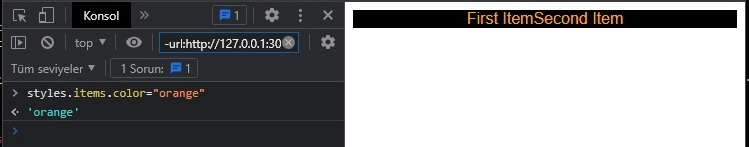
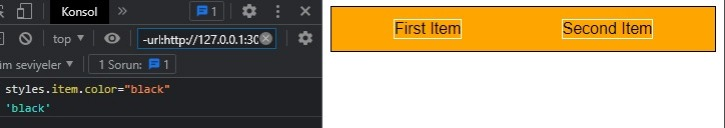
doc

diff --git a/example.html b/example.html
@@ -9,24 +9,49 @@
 </head>
 <body>
     
-    <div css="items"><span>First Item</span><span>Second Item</span></div>
+<!--You can use multiple variables-->
+<div css="items spaceBetween">
+    <span css="item">First Item</span>
+    <span css="item">Second Item</span>
+</div>
 
-    <script>
-    let styles=document.css({
-    items:{
-      display:"flex",
-      justifyContent:"center",
-      alignItems:"center"
+<script>
+//First Method
+let styles=document.css({
+items:{
+  display:"flex",
+  alignItems:"center",
+  padding:"12px",
+  border:"1px solid black",
+},
+spaceBetween:{
+    justifyContent:"space-around"
+},
+item:{
+    border:"white 1px solid"
+}
+})
+
+//You can update after
+let items=styles.items
+
+items.color="white";
+items.backgroundColor="orange"
+
+
+/*
+Alternative usage
+
+let [style,settings]=css({
+    blue:{
+    backgroundColor:"blue"
     }
-    })
-    
-    //You can update after
-    let items=styles.items
-    
-    items.color="green";
-    items.backgroundColor="black"
-    
-    </script>
-    
+})
+
+//You can add multiple elements
+settings.init(document)
+settings.init(document.querySelector(".other"))
+*/
+</script>
 </body>
 </html>

diff --git a/README.md b/README.md
@@ -4,26 +4,59 @@
 Variable Based Dynamic Css Library
 
 # Usage
-```
-<div css="items"><span>First Item</span><span>Second Item</span></div>
+```html
+<!--You can use multiple variables-->
+<div css="items spaceAround">
+    <span css="item">First Item</span>
+    <span css="item">Second Item</span>
+</div>
 
 <script>
+//First Method
 let styles=document.css({
 items:{
   display:"flex",
-  justifyContent:"center",
-  alignItems:"center"
+  alignItems:"center",
+  padding:"12px",
+  border:"1px solid black",
+},
+spaceAround:{
+    justifyContent:"space-around"
+},
+item:{
+    border:"white 1px solid"
 }
 })
 
 //You can update after
 let items=styles.items
 
-items.color="green";
-items.backgroundColor="black"
+items.color="white";
+items.backgroundColor="orange"
 
-</script>
+
+/*
+Alternative usage
+
+let [style,settings]=css({
+    blue:{
+    backgroundColor:"blue"
+    }
+})
+
+//You can add multiple elements
+settings.init(document)
+settings.init(document.querySelector(".other"))
+*/
 ```
+<hr>
+
+## Before After
+### Before
+<img src="./images/before.jpeg">
+
+### After
+<img src="./images/after.jpeg">
 
 # Installations
 
